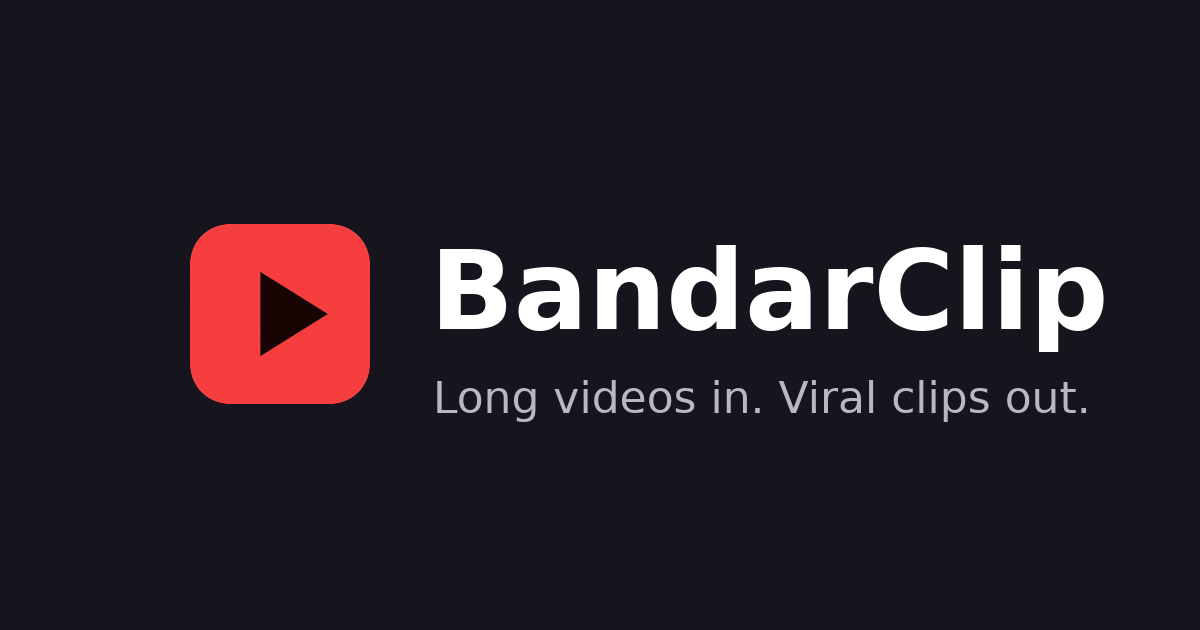
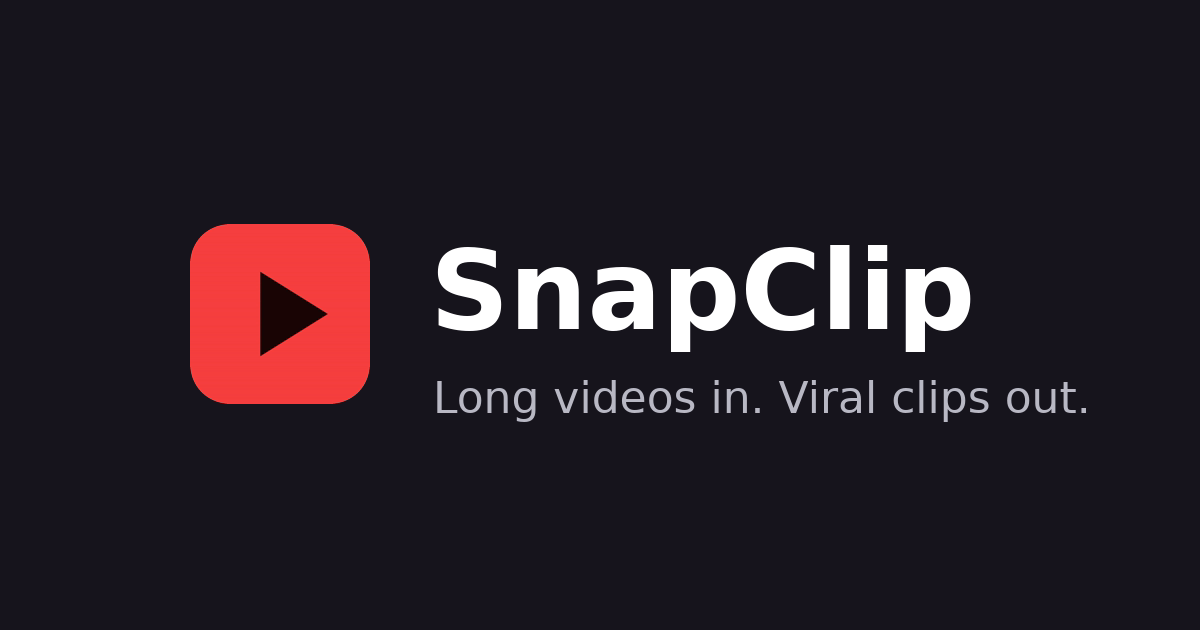
feat: rename references from BandarClip to SnapClip across the application

Changed region(s): [[0.3392, 0.3921, 0.925, 0.573]]

diff --git a/web/src/app/layout.tsx b/web/src/app/layout.tsx
@@ -18,12 +18,12 @@ const SITE_URL = process.env.NEXT_PUBLIC_SITE_URL ?? "http://localhost:3005";
 export const metadata: Metadata = {
   metadataBase: new URL(SITE_URL),
   title: {
-    default: "BandarClip — Turn long videos into viral short clips",
-    template: "%s · BandarClip",
+    default: "SnapClip — Turn long videos into viral short clips",
+    template: "%s · SnapClip",
   },
   description:
-    "Paste a YouTube link or upload a video. BandarClip transcribes it, finds the moments that hook, and cuts them to 9:16 — automatically.",
-  applicationName: "BandarClip",
+    "Paste a YouTube link or upload a video. SnapClip transcribes it, finds the moments that hook, and cuts them to 9:16 — automatically.",
+  applicationName: "SnapClip",
   keywords: [
     "video clips",
     "viral clips",
@@ -37,18 +37,18 @@ export const metadata: Metadata = {
   ],
   openGraph: {
     type: "website",
-    siteName: "BandarClip",
-    title: "BandarClip — Turn long videos into viral short clips",
+    siteName: "SnapClip",
+    title: "SnapClip — Turn long videos into viral short clips",
     description:
-      "Paste a YouTube link or upload a video. BandarClip transcribes it, finds the moments that hook, and cuts them to 9:16 — automatically.",
+      "Paste a YouTube link or upload a video. SnapClip transcribes it, finds the moments that hook, and cuts them to 9:16 — automatically.",
     url: SITE_URL,
-    images: [{ url: "/og.png", width: 1200, height: 630, alt: "BandarClip" }],
+    images: [{ url: "/og.png", width: 1200, height: 630, alt: "SnapClip" }],
   },
   twitter: {
     card: "summary_large_image",
-    title: "BandarClip — Turn long videos into viral short clips",
+    title: "SnapClip — Turn long videos into viral short clips",
     description:
-      "Paste a YouTube link or upload a video. BandarClip transcribes it, finds the moments that hook, and cuts them to 9:16 — automatically.",
+      "Paste a YouTube link or upload a video. SnapClip transcribes it, finds the moments that hook, and cuts them to 9:16 — automatically.",
     images: ["/og.png"],
   },
   alternates: { canonical: "/" },

diff --git a/web/src/app/page.tsx b/web/src/app/page.tsx
@@ -52,7 +52,7 @@ function PricingTier({
 }
 
 function ClipPreview() {
-  // A real mini-UI specimen rendered inline — the BandarClip signature:
+  // A real mini-UI specimen rendered inline — the SnapClip signature:
   // timestamp-forward clip cards + pipeline stages. Not a fake screenshot.
   const clips = [
     { t: "0:42 – 1:18", dur: "36s", title: "The hook that changed everything", hook: "This one sentence is why the video blew up." },
@@ -102,7 +102,7 @@ export default function HomePage() {
           <span className="flex h-7 w-7 items-center justify-center rounded-lg bg-accent text-accent-ink">
             <Scissors size={15} weight="bold" />
           </span>
-          <span className="text-[15px] font-semibold tracking-tight text-ink">BandarClip</span>
+          <span className="text-[15px] font-semibold tracking-tight text-ink">SnapClip</span>
         </Link>
         <nav className="flex items-center gap-2">
           <Link
@@ -133,7 +133,7 @@ export default function HomePage() {
             <span className="text-ink-tertiary">Viral clips out.</span>
           </h1>
           <p className="max-w-md text-base leading-relaxed text-ink-tertiary pretty">
-            Paste a YouTube link or upload a file. BandarClip transcribes it,
+            Paste a YouTube link or upload a file. SnapClip transcribes it,
             finds the moments that hook, and cuts them to 9:16 — automatically.
           </p>
           <div className="flex items-center gap-3">
@@ -225,7 +225,7 @@ export default function HomePage() {
       </section>
 
       <footer className="flex items-center justify-between border-t border-line px-6 py-5 md:px-10">
-        <span className="text-xs text-ink-muted">BandarClip — private by default, runs locally.</span>
+        <span className="text-xs text-ink-muted">SnapClip — private by default, runs locally.</span>
         <Link href="/app/login" className="text-xs text-ink-tertiary hover:text-ink">
           Sign in
         </Link>

diff --git a/web/src/app/app/(protected)/dashboard/page.tsx b/web/src/app/app/(protected)/dashboard/page.tsx
@@ -128,7 +128,7 @@ export default function DashboardPage() {
           <p className="mt-1 text-sm text-ink-tertiary">
             {view === "trash"
               ? `Deleted projects are permanently removed after ${TRASH_RETENTION_DAYS} days.`
-              : "Paste a YouTube link or upload a video — BandarClip finds the moments worth cutting."}
+              : "Paste a YouTube link or upload a video — SnapClip finds the moments worth cutting."}
           </p>
         </div>
         <div className="flex items-center gap-2">
@@ -344,7 +344,7 @@ export default function DashboardPage() {
           <EmptyState
             icon={<FilmReel size={28} />}
             title="No projects yet"
-            body="Create your first project and BandarClip will find the moments worth cutting."
+            body="Create your first project and SnapClip will find the moments worth cutting."
             action={
               <Button onClick={() => setComposerOpen(true)}>
                 <Plus size={16} weight="bold" />

diff --git a/web/src/app/app/(auth)/layout.tsx b/web/src/app/app/(auth)/layout.tsx
@@ -16,7 +16,7 @@ export default function AuthLayout({ children }: { children: React.ReactNode }) 
           <span className="flex h-7 w-7 items-center justify-center rounded-lg bg-accent text-accent-ink">
             <Scissors size={15} weight="bold" />
           </span>
-          <span className="text-[15px] font-semibold tracking-tight text-ink">BandarClip</span>
+          <span className="text-[15px] font-semibold tracking-tight text-ink">SnapClip</span>
         </Link>
 
         <div className="max-w-sm">

diff --git a/web/src/app/app/(protected)/layout.tsx b/web/src/app/app/(protected)/layout.tsx
@@ -13,7 +13,7 @@ function Logo() {
       <span className="flex h-7 w-7 items-center justify-center rounded-lg bg-accent text-accent-ink">
         <VideoCamera size={16} weight="fill" />
       </span>
-      <span className="text-[15px] font-semibold tracking-tight text-ink">BandarClip</span>
+      <span className="text-[15px] font-semibold tracking-tight text-ink">SnapClip</span>
     </Link>
   );
 }

diff --git a/backend/app/api/billing.py b/backend/app/api/billing.py
@@ -169,7 +169,7 @@ def _checkout_midtrans(user: SessionUser, pack_key: str) -> CheckoutResponse:
         result = midtrans.create_snap_transaction(
             order_id=order_id,
             gross_amount=gross_amount,
-            plan_name=f"BandarClip {pack['name']} pack",
+            plan_name=f"SnapClip {pack['name']} pack",
             plan_key=pack_key,
             user_id=user.id,
             user_email=user.email,

diff --git a/backend/app/main.py b/backend/app/main.py
@@ -20,7 +20,7 @@ FRONTEND_URLS = [
     if origin.strip()
 ]
 
-app = FastAPI(title="BandarClip Backend")
+app = FastAPI(title="SnapClip Backend")
 
 if FRONTEND_URLS:
     app.add_middleware(
